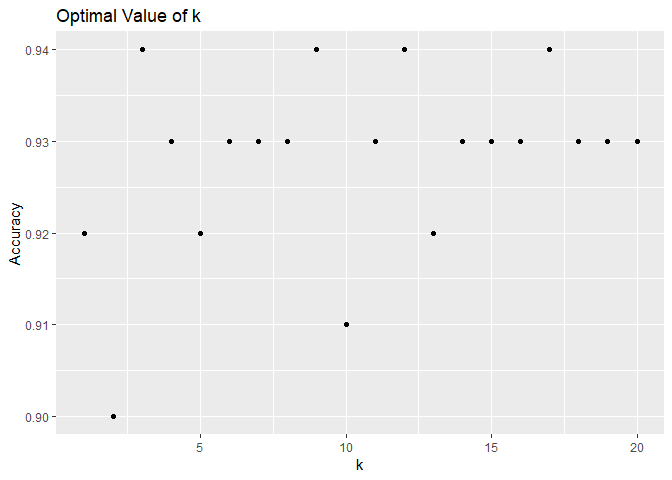
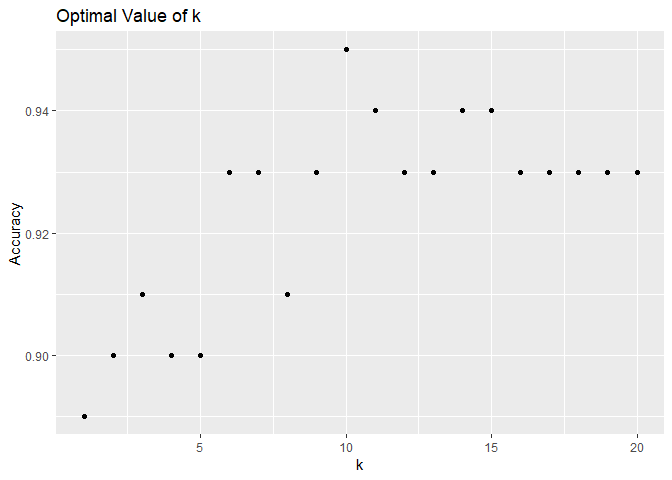
Trying to get the image to work

diff --git a/code_md.md b/code_md.md
@@ -69,7 +69,7 @@ Data Set Description
 
 To build this data set, scientists took FNA images of cell nuclei from breast tumors that had already been classified as malignant or benign. An example of a breast tumor cell nuclei FNA image is shown as follows:
 
-![FNA Image (from Teague et al. 1997](fna_image_2.JPG)
+![FNA Image (from Teague et al. 1997)](fna_image_2.JPG)
 
 Based on these images, various measurements of shape, size, and texture of the cell nuclei were taken, with each variable in the data set given as an average, standard error, or mean of the three largest values of several measurements of the same type. For example, the mean radius of all the cell nuclei in a tumor sample image is provided for each observation, as well as the standard error of the cell nuclei radii for the observation and the average of the three largest cell nuclei radii, labeled as “worst”.
 
@@ -473,9 +473,9 @@ knn.obj = rknnBeg(train.X, train.Y, k = 1, r = 500,
 bestset(knn.obj)
 ```
 
-    ## [1] "area_worst"           "radius_worst"         "perimeter_worst"     
-    ## [4] "radius_mean"          "perimeter_se"         "concavity_worst"     
-    ## [7] "concave_points_worst" "perimeter_mean"
+    ## [1] "radius_worst"         "radius_mean"          "perimeter_worst"     
+    ## [4] "concave_points_worst" "area_worst"           "compactness_worst"   
+    ## [7] "concave_points_mean"  "concavity_worst"
 
 ``` r
 #use the subset of predictors selected in the training, validation
@@ -504,7 +504,7 @@ ggplot(k.choose) +
 which.max(k.accuracy.subset)
 ```
 
-    ## [1] 3
+    ## [1] 10
 
 ``` r
 #use the optimal k from the loop in the final knn model
@@ -515,7 +515,7 @@ knn.final.pred1 = knn(train.X.subset, valid.X.subset, train.Y,
 mean(knn.final.pred1 == valid.Y)
 ```
 
-    ## [1] 0.94
+    ## [1] 0.95
 
 ``` r
 knn.accuracy = mean(knn.final.pred1 == valid.Y)
@@ -526,8 +526,8 @@ table(truth = valid.Y, prediction = knn.final.pred1)
 
     ##      prediction
     ## truth  B  M
-    ##     B 62  3
-    ##     M  3 32
+    ##     B 64  1
+    ##     M  4 31
 
 ``` r
 #try to generate probabilities that ROCR can use
@@ -660,7 +660,7 @@ ggplot(a.rf)+
 which.max(accuracy.rf)
 ```
 
-    ## [1] 7
+    ## [1] 26
 
 ``` r
 #formula based on the most important 9 variables
@@ -693,8 +693,8 @@ table(truth = cancer.valid$diagnosis, prediction =
 
     ##      prediction
     ## truth  B  M
-    ##     B 64  1
-    ##     M  2 33
+    ##     B 63  2
+    ##     M  1 34
 
 ``` r
 rf.pred.roc = predict(final.mod.rf, newdata = cancer.valid,
